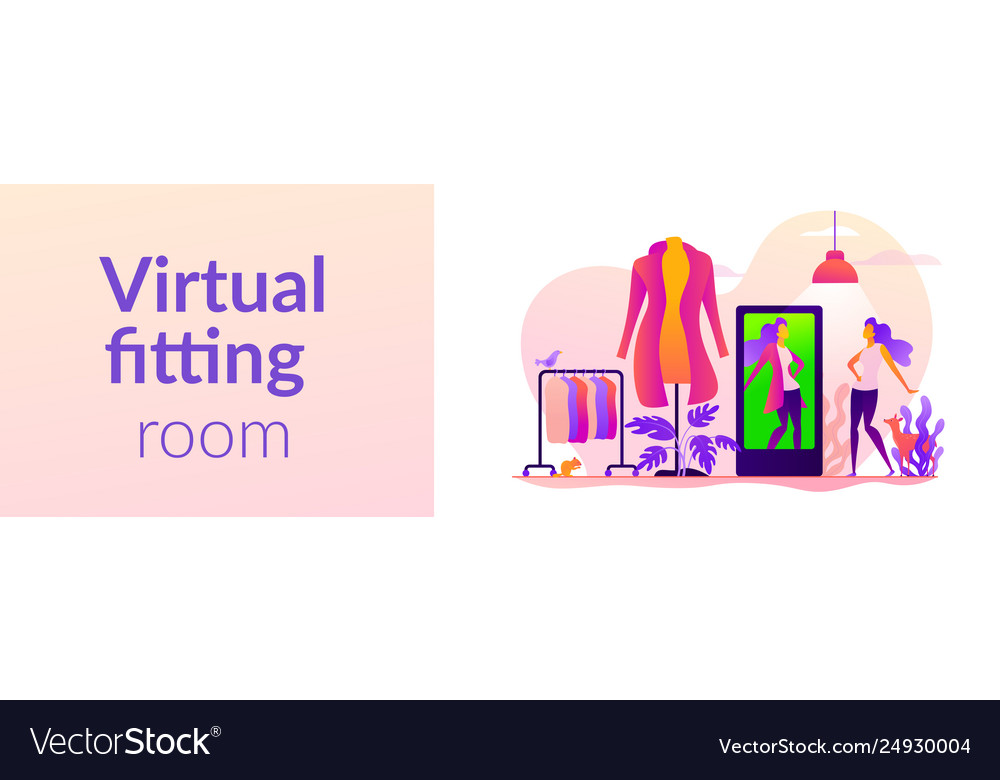
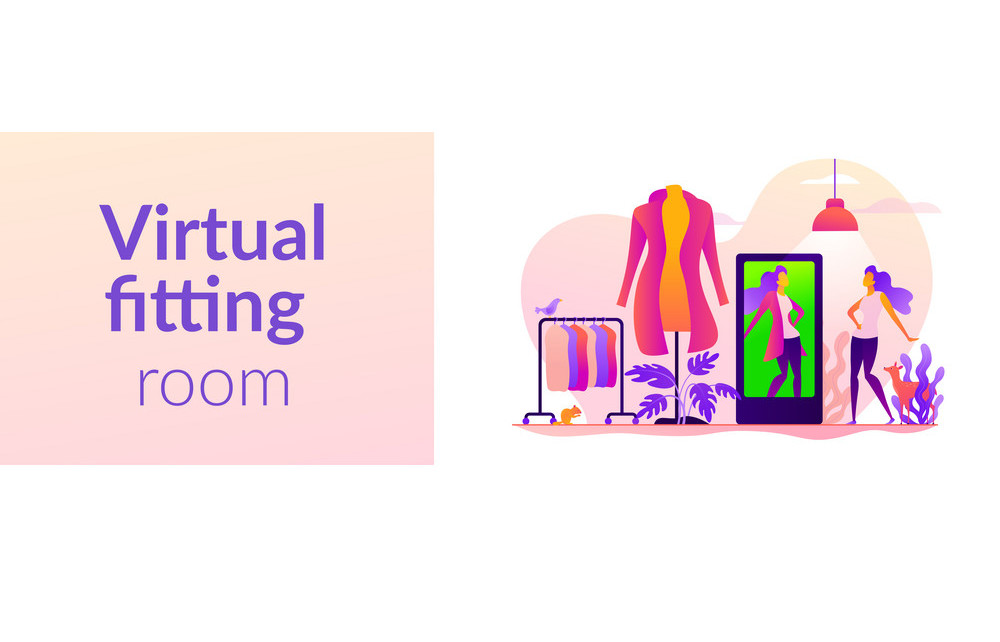
Changes to Portfolio-Website

diff --git a/project/flyhigh/index.html b/project/flyhigh/index.html
@@ -30,7 +30,7 @@
   
     
   
-  <meta name="description" content="This is a group project aimed at helping users get real time flight costs from diffrent websites and give best possible fare results." />
+  <meta name="description" content="Developed a real time flight costs comparison website using selenium to scrape fare from different website." />
 
   
   <link rel="alternate" hreflang="en-us" href="https://rithiksachdev.github.io/project/flyhigh/" />
@@ -297,8 +297,8 @@
   
   <meta property="og:site_name" content="Rithik Sachdev" />
   <meta property="og:url" content="https://rithiksachdev.github.io/project/flyhigh/" />
-  <meta property="og:title" content="Real Time Flight Price Comparision | Rithik Sachdev" />
-  <meta property="og:description" content="This is a group project aimed at helping users get real time flight costs from diffrent websites and give best possible fare results." /><meta property="og:image" content="https://rithiksachdev.github.io/project/flyhigh/featured.jpg" />
+  <meta property="og:title" content="Real Time Flight Price Comparison | Rithik Sachdev" />
+  <meta property="og:description" content="Developed a real time flight costs comparison website using selenium to scrape fare from different website." /><meta property="og:image" content="https://rithiksachdev.github.io/project/flyhigh/featured.jpg" />
     <meta property="twitter:image" content="https://rithiksachdev.github.io/project/flyhigh/featured.jpg" /><meta property="og:locale" content="en-us" />
   
     
@@ -326,7 +326,7 @@
     "@type": "WebPage",
     "@id": "https://rithiksachdev.github.io/project/flyhigh/"
   },
-  "headline": "Real Time Flight Price Comparision",
+  "headline": "Real Time Flight Price Comparison",
   
   "image": [
     "https://rithiksachdev.github.io/project/flyhigh/featured.jpg"
@@ -348,7 +348,7 @@
       "url": "https://rithiksachdev.github.io/media/icon_huc9f808c58330c67c9cd2dc0b3cd6b5cb_558896_192x192_fill_lanczos_center_2.png"
     }
   },
-  "description": "This is a group project aimed at helping users get real time flight costs from diffrent websites and give best possible fare results."
+  "description": "Developed a real time flight costs comparison website using selenium to scrape fare from different website."
 }
 </script>
 
@@ -364,7 +364,7 @@
 
 
 
-  <title>Real Time Flight Price Comparision | Rithik Sachdev</title>
+  <title>Real Time Flight Price Comparison | Rithik Sachdev</title>
 </head>
 
 
@@ -764,7 +764,7 @@
 
 
 <div class="article-container pt-3">
-  <h1>Real Time Flight Price Comparision</h1>
+  <h1>Real Time Flight Price Comparison</h1>
 
   
 
@@ -881,7 +881,7 @@
       
       
       <li>
-        <a href="https://twitter.com/intent/tweet?url=https://rithiksachdev.github.io/project/flyhigh/&amp;text=Real%20Time%20Flight%20Price%20Comparision" target="_blank" rel="noopener" class="share-btn-twitter">
+        <a href="https://twitter.com/intent/tweet?url=https://rithiksachdev.github.io/project/flyhigh/&amp;text=Real%20Time%20Flight%20Price%20Comparison" target="_blank" rel="noopener" class="share-btn-twitter">
           <i class="fab fa-twitter"></i>
         </a>
       </li>
@@ -894,7 +894,7 @@
       
       
       <li>
-        <a href="https://www.facebook.com/sharer.php?u=https://rithiksachdev.github.io/project/flyhigh/&amp;t=Real%20Time%20Flight%20Price%20Comparision" target="_blank" rel="noopener" class="share-btn-facebook">
+        <a href="https://www.facebook.com/sharer.php?u=https://rithiksachdev.github.io/project/flyhigh/&amp;t=Real%20Time%20Flight%20Price%20Comparison" target="_blank" rel="noopener" class="share-btn-facebook">
           <i class="fab fa-facebook"></i>
         </a>
       </li>
@@ -907,7 +907,7 @@
       
       
       <li>
-        <a href="mailto:?subject=Real%20Time%20Flight%20Price%20Comparision&amp;body=https://rithiksachdev.github.io/project/flyhigh/" target="_blank" rel="noopener" class="share-btn-email">
+        <a href="mailto:?subject=Real%20Time%20Flight%20Price%20Comparison&amp;body=https://rithiksachdev.github.io/project/flyhigh/" target="_blank" rel="noopener" class="share-btn-email">
           <i class="fas fa-envelope"></i>
         </a>
       </li>
@@ -920,7 +920,7 @@
       
       
       <li>
-        <a href="https://www.linkedin.com/shareArticle?url=https://rithiksachdev.github.io/project/flyhigh/&amp;title=Real%20Time%20Flight%20Price%20Comparision" target="_blank" rel="noopener" class="share-btn-linkedin">
+        <a href="https://www.linkedin.com/shareArticle?url=https://rithiksachdev.github.io/project/flyhigh/&amp;title=Real%20Time%20Flight%20Price%20Comparison" target="_blank" rel="noopener" class="share-btn-linkedin">
           <i class="fab fa-linkedin-in"></i>
         </a>
       </li>
@@ -933,7 +933,7 @@
       
       
       <li>
-        <a href="whatsapp://send?text=Real%20Time%20Flight%20Price%20Comparision%20https://rithiksachdev.github.io/project/flyhigh/" target="_blank" rel="noopener" class="share-btn-whatsapp">
+        <a href="whatsapp://send?text=Real%20Time%20Flight%20Price%20Comparison%20https://rithiksachdev.github.io/project/flyhigh/" target="_blank" rel="noopener" class="share-btn-whatsapp">
           <i class="fab fa-whatsapp"></i>
         </a>
       </li>
@@ -946,7 +946,7 @@
       
       
       <li>
-        <a href="https://service.weibo.com/share/share.php?url=https://rithiksachdev.github.io/project/flyhigh/&amp;title=Real%20Time%20Flight%20Price%20Comparision" target="_blank" rel="noopener" class="share-btn-weibo">
+        <a href="https://service.weibo.com/share/share.php?url=https://rithiksachdev.github.io/project/flyhigh/&amp;title=Real%20Time%20Flight%20Price%20Comparison" target="_blank" rel="noopener" class="share-btn-weibo">
           <i class="fab fa-weibo"></i>
         </a>
       </li>

diff --git a/index.html b/index.html
@@ -424,6 +424,8 @@
 
 
 
+
+
 <nav class="navbar navbar-expand-lg navbar-light compensate-for-scrollbar" id="navbar-main">
   <div class="container-xl">
 
@@ -680,6 +682,8 @@
       
       
         
+      
+
       
       
       <li class="nav-item">
@@ -1487,7 +1491,7 @@
     
     
     <a href="https://github.com/rithiksachdev/DDoSAttackDetection" target="_blank" rel="noopener" class="card-image hover-overlay">
-      <img src="/project/ddos-attack-detection/featured_hu257c5cd3b1e0d4aea2c1a177a2bfb375_20740_550x0_resize_q75_lanczos.jpg" alt="DDoS Attack Detection using Machine Learning" class="img-responsive" loading="lazy">
+      <img src="/project/ddos-attack-detection/featured_hu5b168aa54b47bfdc4990303ccf6ba4dc_2314398_550x0_resize_q75_lanczos.jpg" alt="DDoS Attack Detection using Machine Learning" class="img-responsive" loading="lazy">
     </a>
     
     <div class="card-text">
@@ -1544,7 +1548,7 @@
 
       
       <div class="article-style">
-        <p>Developed member directory application for the Students of the Institute. This Application was built on Android Studio using Java Programming Language and SQLite as a database.</p>
+        <p>Developed member directory application on Android Studio using Java Programming Language and SQLite as a database. The app features are - User Profile, Notification, Search, Night Mode, and Information log to admin.</p>
       </div>
       
 
@@ -1585,15 +1589,15 @@
     
     
     <a href="https://github.com/rithiksachdev/Flyhigh" target="_blank" rel="noopener" class="card-image hover-overlay">
-      <img src="/project/flyhigh/featured_hu7a2233f381879bb62603404dfd46a73b_30099_550x0_resize_q75_lanczos.jpg" alt="Real Time Flight Price Comparision" class="img-responsive" loading="lazy">
+      <img src="/project/flyhigh/featured_hu7a2233f381879bb62603404dfd46a73b_30099_550x0_resize_q75_lanczos.jpg" alt="Real Time Flight Price Comparison" class="img-responsive" loading="lazy">
     </a>
     
     <div class="card-text">
-      <h4><a href="https://github.com/rithiksachdev/Flyhigh" target="_blank" rel="noopener">Real Time Flight Price Comparision</a></h4>
+      <h4><a href="https://github.com/rithiksachdev/Flyhigh" target="_blank" rel="noopener">Real Time Flight Price Comparison</a></h4>
 
       
       <div class="article-style">
-        <p>This is a group project aimed at helping users get real time flight costs from diffrent websites and give best possible fare results.</p>
+        <p>Developed a real time flight costs comparison website using selenium to scrape fare from different website.</p>
       </div>
       
 
@@ -1732,7 +1736,7 @@
     
     
     <a href="https://github.com/rithiksachdev/HackIndore2_Kryptonians" target="_blank" rel="noopener" class="card-image hover-overlay">
-      <img src="/project/virtual-dressing-room/featured_hu11088c39ccfcc4638c4993ac907be6dd_133871_550x0_resize_q75_lanczos.jpg" alt="Virtual Fitting Room" class="img-responsive" loading="lazy">
+      <img src="/project/virtual-dressing-room/featured_hu43d912c37f3fd393feefa96d83f2ae8d_124334_550x0_resize_q75_lanczos.jpg" alt="Virtual Fitting Room" class="img-responsive" loading="lazy">
     </a>
     
     <div class="card-text">
@@ -1781,7 +1785,7 @@
     
     
     <a href="https://github.com/rithiksachdev/Votify" target="_blank" rel="noopener" class="card-image hover-overlay">
-      <img src="/project/votify/featured_hu74752b17136e17e52a91198e1423dd3d_28720_550x0_resize_q75_lanczos.jpg" alt="Votify" class="img-responsive" loading="lazy">
+      <img src="/project/votify/featured_hu1da39e1b9d7cdfa337a27e3ffabf9c91_118744_550x0_resize_q75_lanczos.jpg" alt="Votify" class="img-responsive" loading="lazy">
     </a>
     
     <div class="card-text">
@@ -1990,7 +1994,7 @@
   
   
   <a href="/publication/conference-paper/">
-    <div class="img-hover-zoom"><img src="/publication/conference-paper/featured_hu257c5cd3b1e0d4aea2c1a177a2bfb375_20740_808x455_fill_q75_lanczos_smart1.jpg" class="article-banner" alt="Detection of DDoS Attacks using Machine Learning" loading="lazy"></div>
+    <div class="img-hover-zoom"><img src="/publication/conference-paper/featured_hu5b168aa54b47bfdc4990303ccf6ba4dc_2314398_808x455_fill_q75_lanczos_smart1.jpg" class="article-banner" alt="Detection of DDoS Attacks using Machine Learning" loading="lazy"></div>
   </a>
   
 

diff --git a/project/member-directory/index.html b/project/member-directory/index.html
@@ -30,7 +30,7 @@
   
     
   
-  <meta name="description" content="Developed member directory application for the Students of the Institute. This Application was built on Android Studio using Java Programming Language and SQLite as a database." />
+  <meta name="description" content="Developed member directory application on Android Studio using Java Programming Language and SQLite as a database. The app features are - User Profile, Notification, Search, Night Mode, and Information log to admin." />
 
   
   <link rel="alternate" hreflang="en-us" href="https://rithiksachdev.github.io/project/member-directory/" />
@@ -298,7 +298,7 @@
   <meta property="og:site_name" content="Rithik Sachdev" />
   <meta property="og:url" content="https://rithiksachdev.github.io/project/member-directory/" />
   <meta property="og:title" content="Member Directory Android Application | Rithik Sachdev" />
-  <meta property="og:description" content="Developed member directory application for the Students of the Institute. This Application was built on Android Studio using Java Programming Language and SQLite as a database." /><meta property="og:image" content="https://rithiksachdev.github.io/project/member-directory/featured.jpg" />
+  <meta property="og:description" content="Developed member directory application on Android Studio using Java Programming Language and SQLite as a database. The app features are - User Profile, Notification, Search, Night Mode, and Information log to admin." /><meta property="og:image" content="https://rithiksachdev.github.io/project/member-directory/featured.jpg" />
     <meta property="twitter:image" content="https://rithiksachdev.github.io/project/member-directory/featured.jpg" /><meta property="og:locale" content="en-us" />
   
     
@@ -348,7 +348,7 @@
       "url": "https://rithiksachdev.github.io/media/icon_huc9f808c58330c67c9cd2dc0b3cd6b5cb_558896_192x192_fill_lanczos_center_2.png"
     }
   },
-  "description": "Developed member directory application for the Students of the Institute. This Application was built on Android Studio using Java Programming Language and SQLite as a database."
+  "description": "Developed member directory application on Android Studio using Java Programming Language and SQLite as a database. The app features are - User Profile, Notification, Search, Night Mode, and Information log to admin."
 }
 </script>
 

diff --git a/project/index.html b/project/index.html
@@ -764,7 +764,7 @@
       <h2><a href="https://github.com/rithiksachdev/Sgsitsmemberdirectory/" target="_blank" rel="noopener">Member Directory Android Application</a></h2>
       <div class="article-style">
         
-          Developed member directory application for the Students of the Institute. This Application was built on Android Studio using Java Programming Language and SQLite as a database.
+          Developed member directory application on Android Studio using Java Programming Language and SQLite as a database. The app features are - User Profile, Notification, Search, Night Mode, and Information log to admin.
         
       </div>
     </div>
@@ -776,10 +776,10 @@
       
     
     <div>
-      <h2><a href="https://github.com/rithiksachdev/Flyhigh" target="_blank" rel="noopener">Real Time Flight Price Comparision</a></h2>
+      <h2><a href="https://github.com/rithiksachdev/Flyhigh" target="_blank" rel="noopener">Real Time Flight Price Comparison</a></h2>
       <div class="article-style">
         
-          This is a group project aimed at helping users get real time flight costs from diffrent websites and give best possible fare results.
+          Developed a real time flight costs comparison website using selenium to scrape fare from different website.
         
       </div>
     </div>

diff --git a/publication/conference-paper/index.html b/publication/conference-paper/index.html
@@ -946,9 +946,9 @@
 </div>
 
 
-<div class="article-header article-container featured-image-wrapper mt-4 mb-4" style="max-width: 720px; max-height: 720px;">
+<div class="article-header article-container featured-image-wrapper mt-4 mb-4" style="max-width: 720px; max-height: 405px;">
   <div style="position: relative">
-    <img src="/publication/conference-paper/featured_hu257c5cd3b1e0d4aea2c1a177a2bfb375_20740_720x0_resize_q75_lanczos.jpg" alt="" class="featured-image">
+    <img src="/publication/conference-paper/featured_hu5b168aa54b47bfdc4990303ccf6ba4dc_2314398_720x0_resize_q75_lanczos.jpg" alt="" class="featured-image">
     <span class="article-header-caption">Image credit: <a href="https://unsplash.com/photos/pLCdAaMFLTE"><strong>Unsplash</strong></a></span>
   </div>
 </div>

diff --git a/project/ddos-attack-detection/index.html b/project/ddos-attack-detection/index.html
@@ -846,9 +846,9 @@
 </div>
 
 
-<div class="article-header article-container featured-image-wrapper mt-4 mb-4" style="max-width: 720px; max-height: 720px;">
+<div class="article-header article-container featured-image-wrapper mt-4 mb-4" style="max-width: 720px; max-height: 405px;">
   <div style="position: relative">
-    <img src="/project/ddos-attack-detection/featured_hu257c5cd3b1e0d4aea2c1a177a2bfb375_20740_720x0_resize_q75_lanczos.jpg" alt="" class="featured-image">
+    <img src="/project/ddos-attack-detection/featured_hu5b168aa54b47bfdc4990303ccf6ba4dc_2314398_720x0_resize_q75_lanczos.jpg" alt="" class="featured-image">
     <span class="article-header-caption">DDoS Attack Detection</span>
   </div>
 </div>

diff --git a/project/virtual-dressing-room/index.html b/project/virtual-dressing-room/index.html
@@ -846,9 +846,9 @@
 </div>
 
 
-<div class="article-header article-container featured-image-wrapper mt-4 mb-4" style="max-width: 720px; max-height: 562px;">
+<div class="article-header article-container featured-image-wrapper mt-4 mb-4" style="max-width: 720px; max-height: 462px;">
   <div style="position: relative">
-    <img src="/project/virtual-dressing-room/featured_hu11088c39ccfcc4638c4993ac907be6dd_133871_720x0_resize_q75_lanczos.jpg" alt="" class="featured-image">
+    <img src="/project/virtual-dressing-room/featured_hu43d912c37f3fd393feefa96d83f2ae8d_124334_720x0_resize_q75_lanczos.jpg" alt="" class="featured-image">
     <span class="article-header-caption">Virtual Fitting Room</span>
   </div>
 </div>

diff --git a/project/votify/index.html b/project/votify/index.html
@@ -846,9 +846,9 @@
 </div>
 
 
-<div class="article-header article-container featured-image-wrapper mt-4 mb-4" style="max-width: 720px; max-height: 720px;">
+<div class="article-header article-container featured-image-wrapper mt-4 mb-4" style="max-width: 720px; max-height: 724px;">
   <div style="position: relative">
-    <img src="/project/votify/featured_hu74752b17136e17e52a91198e1423dd3d_28720_720x0_resize_q75_lanczos.jpg" alt="" class="featured-image">
+    <img src="/project/votify/featured_hu1da39e1b9d7cdfa337a27e3ffabf9c91_118744_720x0_resize_q75_lanczos.jpg" alt="" class="featured-image">
     <span class="article-header-caption">Vote for a better tomorrow</span>
   </div>
 </div>

diff --git a/js/wowchemy-init.min.5f3407a3a06f15b985245df562932996.js b/js/wowchemy-init.min.5f3407a3a06f15b985245df562932996.js
@@ -12,4 +12,3 @@ if(isDarkTheme&&!body.classList.contains("dark")){console.debug("Applying Wowche
 return{isDarkTheme,themeMode:currentThemeMode};}
 var wcDarkLightEnabled=true;var wcIsSiteThemeDark=false;window.wc={darkLightEnabled:wcDarkLightEnabled,isSiteThemeDark:wcIsSiteThemeDark};if(window.netlifyIdentity){window.netlifyIdentity.on("init",(user)=>{if(!user){window.netlifyIdentity.on("login",()=>{document.location.href="/admin/";});}});}
 initThemeVariation();window.PlotlyConfig={MathJaxConfig:"local"};})();})();
-
